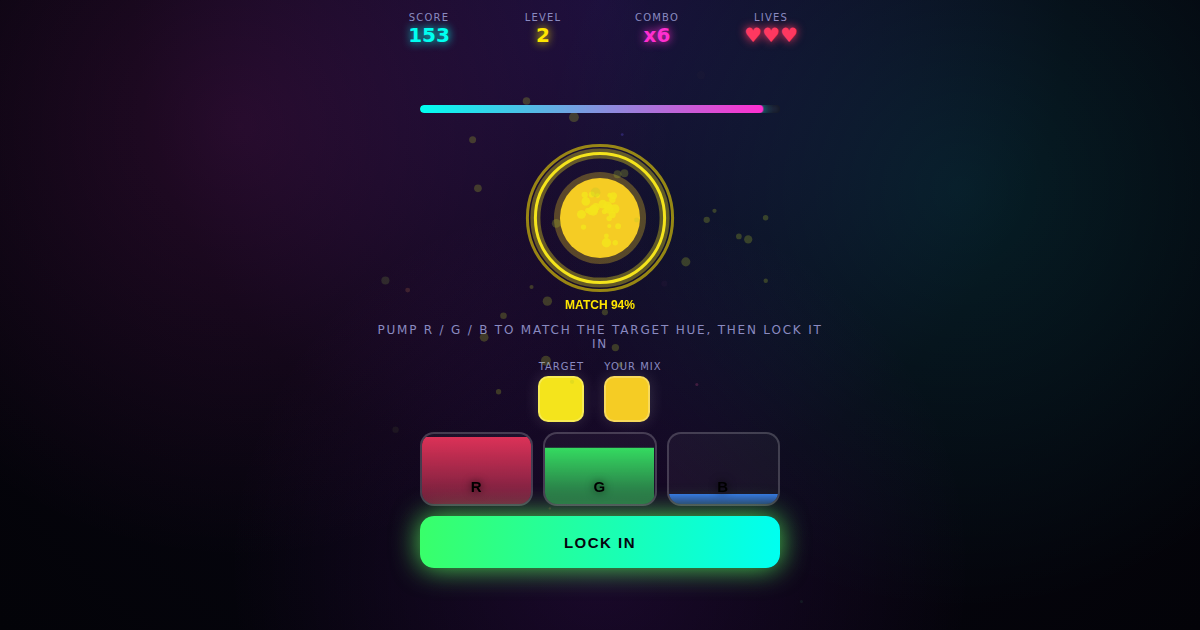
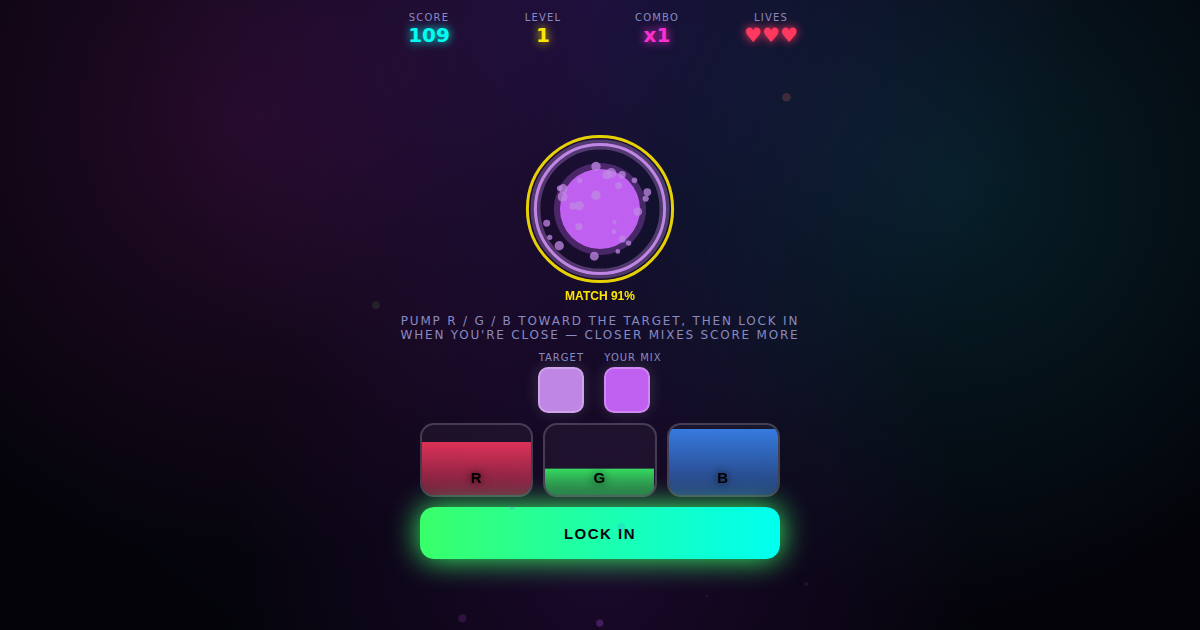
Fix Chroma Mix: remove timer/decay, score on proximity instead
Removed the round countdown and channel decay that made rounds
unwinnable under time pressure. Locking in now scores continuously
based on how close the mix is to the target (with a combo bonus for
exact hits), and only costs a life if the mix is locked in far off
target (dist > tolerance * 2.4). Updated tests/preview/registry copy
to match.

diff --git a/games/2026-08-30/index.html b/games/2026-08-30/index.html
@@ -89,25 +89,6 @@
     pointer-events: none;
   }
 
-  .timerBarTrack {
-    width: 90%;
-    max-width: 360px;
-    height: 8px;
-    border-radius: 6px;
-    background: rgba(255,255,255,0.08);
-    overflow: hidden;
-    box-shadow: inset 0 0 6px rgba(0,0,0,0.6);
-  }
-  .timerBarFill {
-    width: 100%;
-    height: 100%;
-    border-radius: 6px;
-    background: linear-gradient(90deg, #00fff0, #ff2fd0);
-    box-shadow: 0 0 12px #00fff0;
-    transform-origin: left;
-    will-change: transform;
-  }
-
   .prompt {
     font-size: 12px;
     letter-spacing: 0.15em;
@@ -204,6 +185,7 @@
   }
   .lockBtn:active { transform: scale(0.97); }
   .lockBtn.flashOk { background: linear-gradient(90deg, #39ff6a, #00fff0); box-shadow: 0 0 30px #39ff6a; }
+  .lockBtn.flashMeh { background: linear-gradient(90deg, #ffe600, #ff9d00); box-shadow: 0 0 30px #ffe600; }
   .lockBtn.flashBad { background: linear-gradient(90deg, #ff3860, #b026ff); box-shadow: 0 0 30px #ff3860; color: #fff; }
 
   .overlay {
@@ -276,14 +258,14 @@ const { useState, useRef, useEffect, useCallback } = React;
 const HIGH_SCORE_KEY = 'chromaMix_highScore';
 const LEVEL_UP_EVERY = 5;
 const PAD_ADD = 48;
-const DECAY_PER_SEC = 26;
 const MAX_DIST = Math.sqrt(3 * 255 * 255);
+// Beyond tolerance * FAIL_DIST_MULT, locking in costs a life instead of
+// just scoring low — gives players a safe "close enough" margin to bank
+// partial credit in without punishing every imperfect mix.
+const FAIL_DIST_MULT = 2.4;
 
 function clamp(v, lo, hi) { return Math.max(lo, Math.min(hi, v)); }
 
-function timerForLevel(level) {
-  return Math.max(4200, 9000 - (level - 1) * 260);
-}
 function toleranceForLevel(level) {
   return Math.max(32, 80 - (level - 1) * 3);
 }
@@ -325,10 +307,7 @@ function App() {
   // input never triggers a re-render.
   const padFillRefs = useRef([null, null, null]);
   const mixSwatchRef = useRef(null);
-  const timerBarFillRef = useRef(null);
   const targetRef = useRef({ r: 200, g: 80, b: 160 });
-  const roundExpireRef = useRef(0);
-  const roundDurRef = useRef(6000);
   const toleranceRef = useRef(72);
   const levelRef = useRef(1);
   const streakRef = useRef(0);
@@ -336,7 +315,6 @@ function App() {
   const scoreRef = useRef(0);
   const screenRef = useRef('start');
   const lockingRef = useRef(false);
-  const lastTsRef = useRef(0);
   const rafRef = useRef(null);
 
   useEffect(() => { screenRef.current = screen; }, [screen]);
@@ -357,13 +335,10 @@ function App() {
     const t = randTarget();
     targetRef.current = t;
     toleranceRef.current = toleranceForLevel(lvl);
-    roundDurRef.current = timerForLevel(lvl);
-    roundExpireRef.current = performance.now() + roundDurRef.current;
     lockingRef.current = false;
     channelsRef.current = [0, 0, 0];
     padFillRefs.current.forEach(el => { if (el) el.style.transform = 'scaleY(0)'; });
     if (mixSwatchRef.current) mixSwatchRef.current.style.background = 'rgb(0, 0, 0)';
-    if (timerBarFillRef.current) timerBarFillRef.current.style.transform = 'scaleX(1)';
     setTarget(t);
     setLockFlash(null);
   }, []);
@@ -417,30 +392,24 @@ function App() {
     playTone([200, 300, 400][idx], 0.08, 'sine');
   }, [playTone]);
 
-  const handleLock = useCallback((forced) => {
+  // No countdown — players mix at their own pace. Locking in scores on a
+  // continuous curve based on how close the mix is to the target; only
+  // locking in a mix that's way off (beyond the fail gate) costs a life.
+  const handleLock = useCallback(() => {
     if (screenRef.current !== 'playing' || lockingRef.current) return;
     lockingRef.current = true;
     const [r, g, b] = channelsRef.current;
     const t = targetRef.current;
-    const d = Math.sqrt((r - t.r) ** 2 + (g - t.g) ** 2 + (b - t.b) ** 2);
-    const ok = !forced && d <= toleranceRef.current;
+    const dist = Math.sqrt((r - t.r) ** 2 + (g - t.g) ** 2 + (b - t.b) ** 2);
+    const tol = toleranceRef.current;
+    const failDist = tol * FAIL_DIST_MULT;
+    const matchPct = clamp(100 - (dist / MAX_DIST) * 100, 0, 100);
 
     const { cx, cy } = ringGeomRef.current;
+    let lostLife = false;
 
-    if (ok) {
-      streakRef.current += 1;
-      const nc = streakRef.current;
-      setCombo(nc);
-      scoreRef.current += 15 + nc * 3;
-      setScore(scoreRef.current);
-      spawnParticles(cx, cy, rgbCss(t.r, t.g, t.b), 26);
-      playTone(760, 0.18, 'triangle');
-      setLockFlash('success');
-      if (nc % LEVEL_UP_EVERY === 0) {
-        levelRef.current += 1;
-        setLevel(levelRef.current);
-      }
-    } else {
+    if (dist > failDist) {
+      lostLife = true;
       livesRef.current -= 1;
       setLives(livesRef.current);
       streakRef.current = 0;
@@ -450,10 +419,25 @@ function App() {
       spawnParticles(cx, cy, '#ff3860', 18);
       playTone(140, 0.3, 'sawtooth');
       setLockFlash('fail');
+    } else {
+      const perfect = dist <= tol;
+      streakRef.current = perfect ? streakRef.current + 1 : 0;
+      const nc = streakRef.current;
+      setCombo(nc);
+      const gained = Math.round(matchPct) + (perfect ? 15 + nc * 3 : 0);
+      scoreRef.current += gained;
+      setScore(scoreRef.current);
+      spawnParticles(cx, cy, rgbCss(t.r, t.g, t.b), perfect ? 26 : 14);
+      playTone(perfect ? 760 : 480, perfect ? 0.18 : 0.14, 'triangle');
+      setLockFlash(perfect ? 'success' : 'ok');
+      if (perfect && nc % LEVEL_UP_EVERY === 0) {
+        levelRef.current += 1;
+        setLevel(levelRef.current);
+      }
     }
 
     setTimeout(() => {
-      if (!ok && livesRef.current <= 0) {
+      if (lostLife && livesRef.current <= 0) {
         endGame();
       } else {
         spawnRound();
@@ -462,7 +446,7 @@ function App() {
   }, [spawnParticles, playTone, spawnRound, endGame]);
 
   // Keyboard controls: R/G/B (or Arrow Left/Up/Right, A/D) pump channels,
-  // Space/Enter/ArrowDown attempts the lock.
+  // Space/Enter/ArrowDown locks in the current mix.
   useEffect(() => {
     const onKeyDown = (e) => {
       if (e.repeat) return;
@@ -470,7 +454,7 @@ function App() {
       if (k === 'r' || k === 'arrowleft' || k === 'a') addChannel(0, PAD_ADD);
       else if (k === 'g' || k === 'arrowup') addChannel(1, PAD_ADD);
       else if (k === 'b' || k === 'arrowright' || k === 'd') addChannel(2, PAD_ADD);
-      else if (k === ' ' || k === 'enter' || k === 'arrowdown') handleLock(false);
+      else if (k === ' ' || k === 'enter' || k === 'arrowdown') handleLock();
     };
     window.addEventListener('keydown', onKeyDown);
     return () => window.removeEventListener('keydown', onKeyDown);
@@ -522,14 +506,10 @@ function App() {
       });
     }
 
-    lastTsRef.current = performance.now();
-
     const loop = (now) => {
       const dpr = Math.min(window.devicePixelRatio || 1, 2);
       const w = canvas.width / dpr;
       const h = canvas.height / dpr;
-      const dt = Math.min(64, now - lastTsRef.current);
-      lastTsRef.current = now;
       ctx.clearRect(0, 0, w, h);
 
       ambientRef.current.forEach(p => {
@@ -545,18 +525,12 @@ function App() {
       ctx.globalAlpha = 1;
 
       if (screenRef.current === 'playing') {
-        if (!lockingRef.current) {
-          const dtSec = dt / 1000;
-          for (let i = 0; i < 3; i++) {
-            channelsRef.current[i] = Math.max(0, channelsRef.current[i] - DECAY_PER_SEC * dtSec);
-          }
-        }
-
         const t = targetRef.current;
         const [r, g, b] = channelsRef.current;
         const dist = Math.sqrt((r - t.r) ** 2 + (g - t.g) ** 2 + (b - t.b) ** 2);
         const matchPct = clamp(100 - (dist / MAX_DIST) * 100, 0, 100);
         const ready = dist <= toleranceRef.current;
+        const danger = dist > toleranceRef.current * FAIL_DIST_MULT;
 
         const { cx, cy, radius } = ringGeomRef.current;
 
@@ -596,11 +570,8 @@ function App() {
 
         ctx.font = '700 12px sans-serif';
         ctx.textAlign = 'center';
-        ctx.fillStyle = ready ? '#ffe600' : 'rgba(255,255,255,0.7)';
+        ctx.fillStyle = ready ? '#ffe600' : (danger ? '#ff3860' : 'rgba(255,255,255,0.7)');
         ctx.fillText(`MATCH ${matchPct.toFixed(0)}%`, cx, cy + radius + 26);
-
-        const remaining = roundExpireRef.current - now;
-        const pct = clamp((remaining / roundDurRef.current) * 100, 0, 100);
 
         // Write straight to the DOM instead of through React state — this
         // runs every frame while playing, and going through setState here
@@ -609,11 +580,6 @@ function App() {
           if (el) el.style.transform = `scaleY(${channelsRef.current[i] / 255})`;
         });
         if (mixSwatchRef.current) mixSwatchRef.current.style.background = rgbCss(r, g, b);
-        if (timerBarFillRef.current) timerBarFillRef.current.style.transform = `scaleX(${pct / 100})`;
-
-        if (remaining <= 0 && !lockingRef.current) {
-          handleLock(true);
-        }
       }
 
       const parts = particlesRef.current;
@@ -668,11 +634,8 @@ function App() {
 
         {screen === 'playing' && (
           <React.Fragment>
-            <div className="timerBarTrack">
-              <div className="timerBarFill" ref={timerBarFillRef} />
-            </div>
             <div className="ringSlot" ref={ringSlotRef} />
-            <div className="prompt">Pump R / G / B to match the target hue, then lock it in</div>
+            <div className="prompt">Pump R / G / B toward the target, then lock in when you're close — closer mixes score more</div>
             <div className="swatchRow">
               <div className="swatchBox">
                 <div className="swatchLabel">Target</div>
@@ -698,9 +661,9 @@ function App() {
               </button>
             </div>
             <button
-              className={`lockBtn ${lockFlash === 'success' ? 'flashOk' : ''} ${lockFlash === 'fail' ? 'flashBad' : ''}`}
+              className={`lockBtn ${lockFlash === 'success' ? 'flashOk' : ''} ${lockFlash === 'ok' ? 'flashMeh' : ''} ${lockFlash === 'fail' ? 'flashBad' : ''}`}
               data-testid="lock-btn"
-              onClick={() => handleLock(false)}
+              onClick={() => handleLock()}
             >
               LOCK IN
             </button>
@@ -712,9 +675,9 @@ function App() {
             <div className="title">CHROMA MIX</div>
             <div className="subtitle">
               A glowing target hue appears — tap the R, G and B pads (or press R/G/B, arrow keys) to pump your
-              mixing orb toward it. Channels drain fast, so keep pumping. Get close and hit LOCK IN (or Space)
-              before the timer runs out. Lock in a bad blend or run out of time and you lose a life — tolerance
-              shrinks and the clock tightens as your level climbs.
+              mixing orb toward it. No clock — take your time and get as close as you can, then hit LOCK IN
+              (or Space). Score scales with how close your mix is, with a bonus for nailing it exactly. Lock in
+              a mix that's way off target and you'll lose a life — tolerance tightens as your level climbs.
             </div>
             <div className="highscoreLine" data-testid="high-score">Best: {highScore}</div>
             <button className="btn" data-testid="start-btn" onClick={startGame}>START</button>

diff --git a/games/2026-08-30/game.test.js b/games/2026-08-30/game.test.js
@@ -59,7 +59,7 @@ test.describe('2026-08-30 Chroma Mix', () => {
 
     await assertInputResponds(page, {
       controls: 'tap the R/G/B pads to mix, tap LOCK IN to submit',
-      target: '[data-testid="play-field"]',
+      target: '[data-testid="pad-btn"]',
     });
     expect(errors).toHaveLength(0);
   });
@@ -91,7 +91,7 @@ test.describe('2026-08-30 Chroma Mix', () => {
     }
     await assertInputResponds(page, {
       controls: 'tap the R/G/B pads to mix, tap LOCK IN to submit',
-      target: '[data-testid="play-field"]',
+      target: '[data-testid="pad-btn"]',
     });
     expect(errors).toHaveLength(0);
   });
